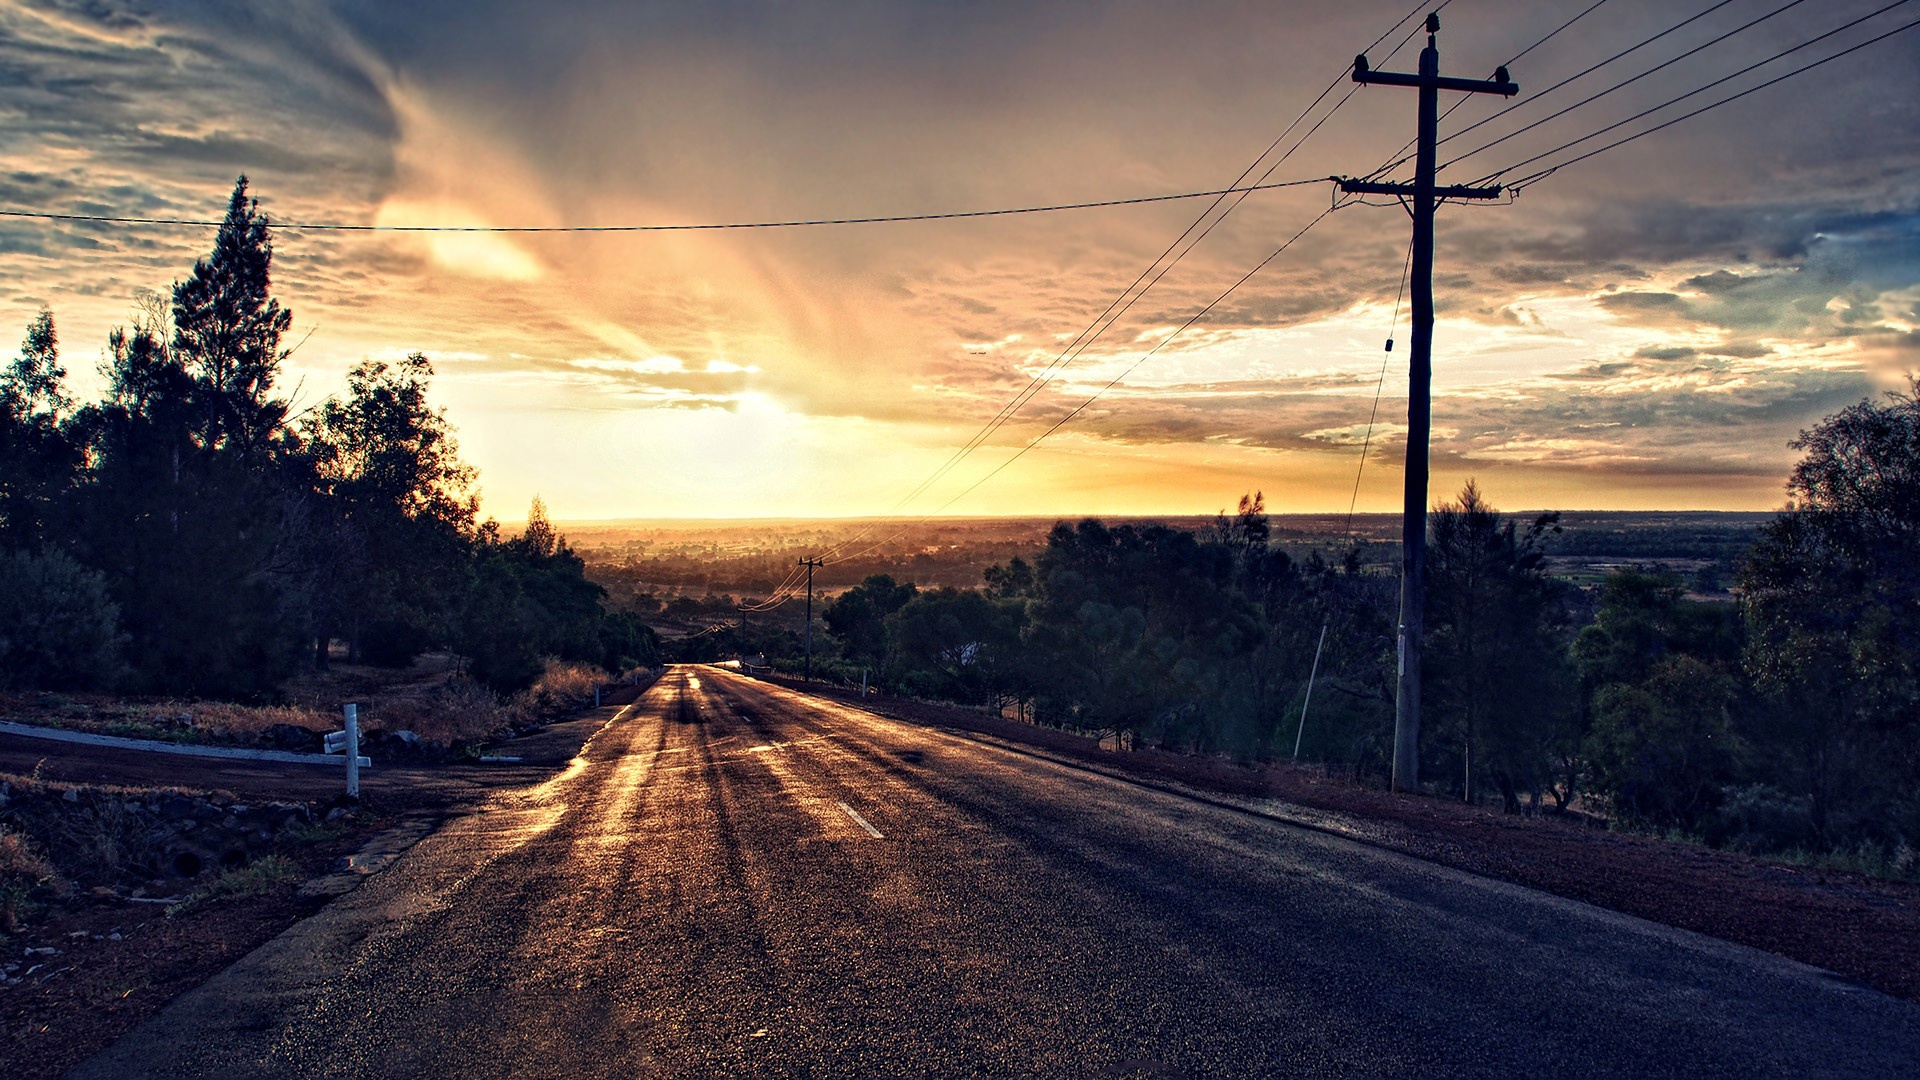
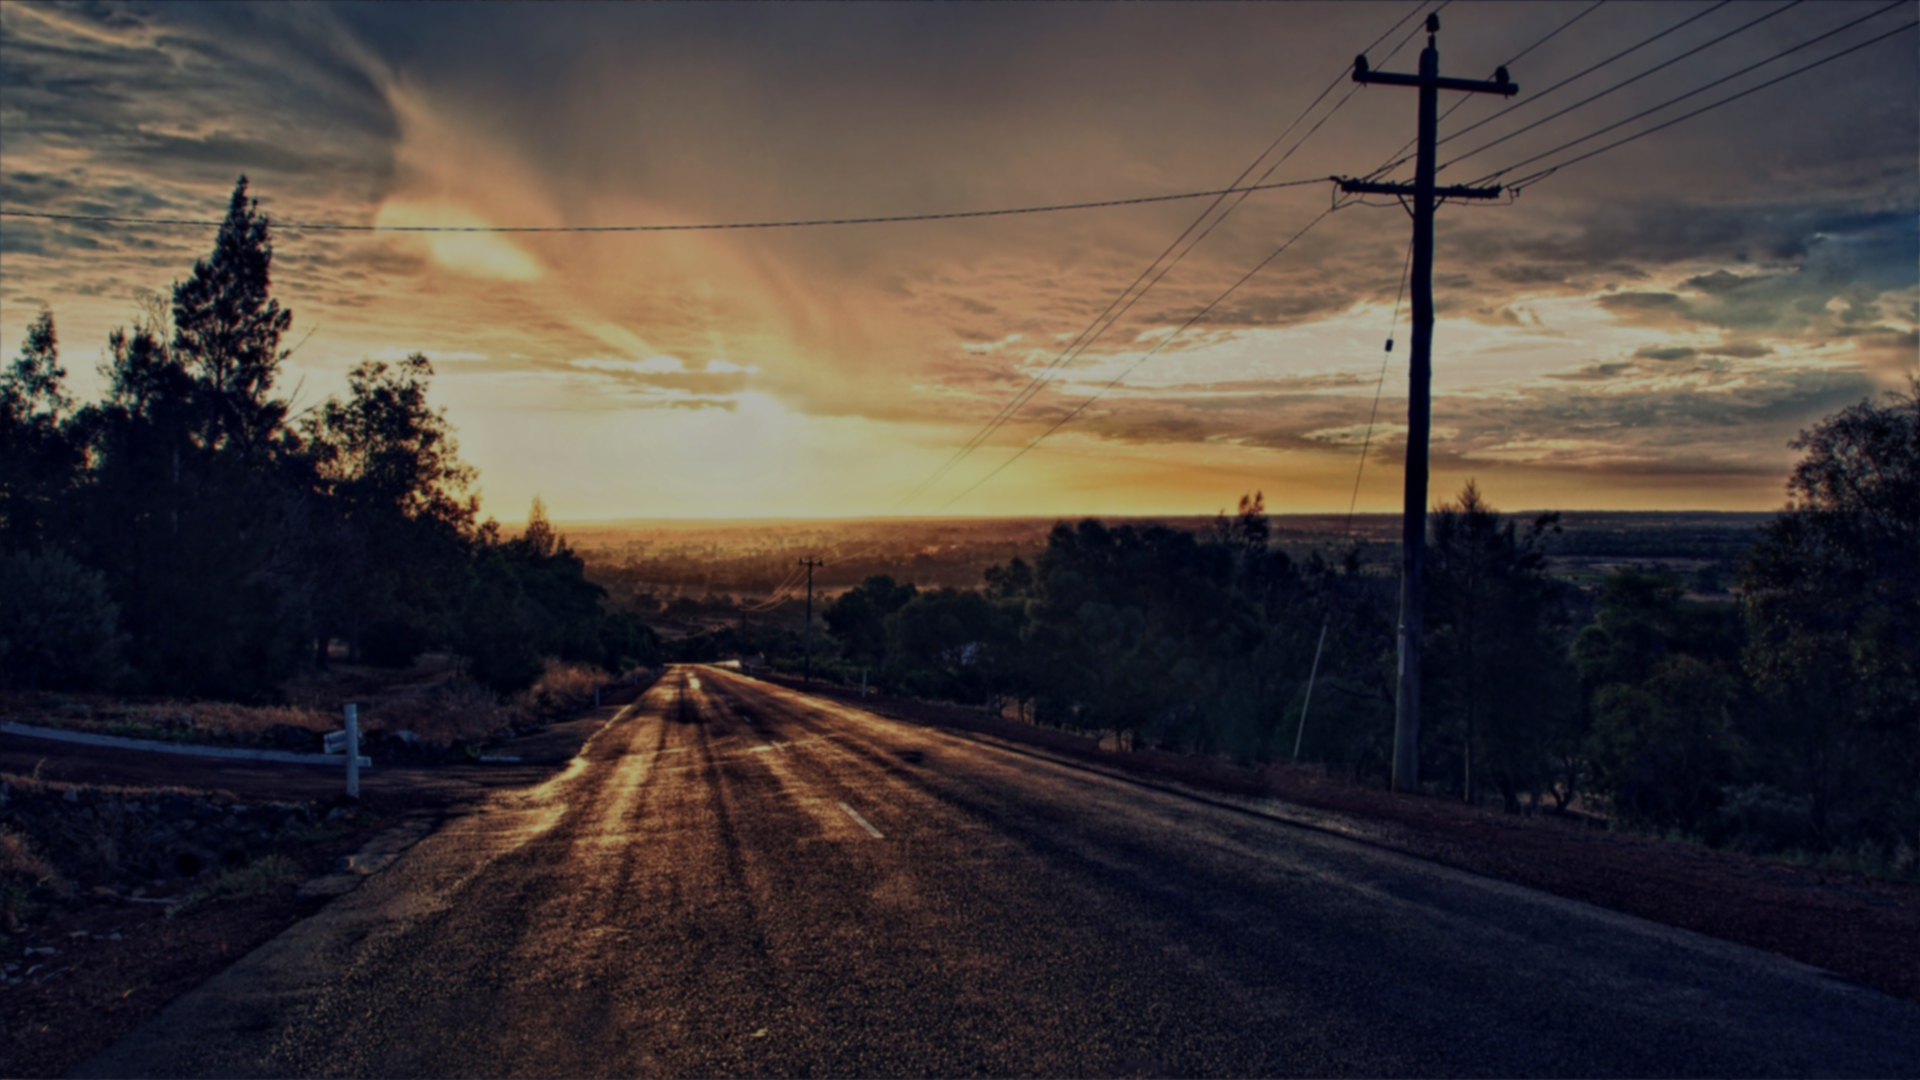
lighten and smoothen image backgrounds
- remove CSS 60% dark overlays
- replace images by 30% darkened and blurred images

diff --git a/views/css/header.css b/views/css/header.css
@@ -9,7 +9,7 @@ header.masthead {
 	position: relative;
 	text-align: center;
 	color: white;
-	background: linear-gradient( rgba(0, 0, 0, 0.6), rgba(0, 0, 0, 0.6) ), url("../img/workshop.jpg") no-repeat center;
+	background: url("../img/workshop.jpg") no-repeat center;
 	-webkit-background-size: cover;
 	-moz-background-size: cover;
 	-o-background-size: cover;

diff --git a/views/css/experience.css b/views/css/experience.css
@@ -3,7 +3,7 @@
 */
 #experience {
 	padding: 0;
-	background: linear-gradient( rgba(0, 0, 0, 0.6), rgba(0, 0, 0, 0.6) ), url('../img/road.jpg') no-repeat fixed center;
+	background: url('../img/road.jpg') no-repeat fixed center;
 	-webkit-background-size: cover;
 	-moz-background-size: cover;
 	-o-background-size: cover;
